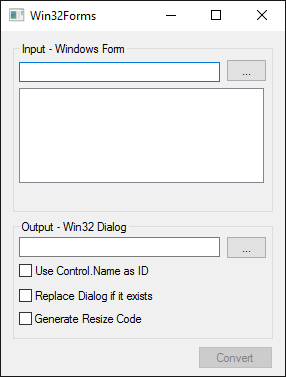
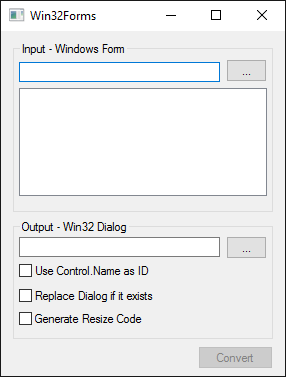
ListBox size improved

Changed region(s): [[0.8951, 0.2334, 0.951, 0.5252], [0.0559, 0.496, 0.0839, 0.5252]]

diff --git a/Win32Forms/ResultBox.Designer.cs b/Win32Forms/ResultBox.Designer.cs
@@ -28,96 +28,97 @@
         /// 
         private void InitializeComponent()
         {
-            this.pnlWhite = new System.Windows.Forms.Panel();
-            this.lblMessage = new System.Windows.Forms.Label();
-            this.picIcon = new System.Windows.Forms.PictureBox();
-            this.txtLog = new System.Windows.Forms.TextBox();
-            this.btnOK = new System.Windows.Forms.Button();
-            this.pnlWhite.SuspendLayout();
-            ((System.ComponentModel.ISupportInitialize)(this.picIcon)).BeginInit();
-            this.SuspendLayout();
-            // 
-            // pnlWhite
-            // 
-            this.pnlWhite.Anchor = ((System.Windows.Forms.AnchorStyles)((((System.Windows.Forms.AnchorStyles.Top | System.Windows.Forms.AnchorStyles.Bottom) 
+			this.pnlWhite = new System.Windows.Forms.Panel();
+			this.lblMessage = new System.Windows.Forms.Label();
+			this.picIcon = new System.Windows.Forms.PictureBox();
+			this.txtLog = new System.Windows.Forms.TextBox();
+			this.btnOK = new System.Windows.Forms.Button();
+			this.pnlWhite.SuspendLayout();
+			((System.ComponentModel.ISupportInitialize)(this.picIcon)).BeginInit();
+			this.SuspendLayout();
+			// 
+			// pnlWhite
+			// 
+			this.pnlWhite.Anchor = ((System.Windows.Forms.AnchorStyles)((((System.Windows.Forms.AnchorStyles.Top | System.Windows.Forms.AnchorStyles.Bottom) 
             | System.Windows.Forms.AnchorStyles.Left) 
             | System.Windows.Forms.AnchorStyles.Right)));
-            this.pnlWhite.BackColor = System.Drawing.Color.White;
-            this.pnlWhite.Controls.Add(this.lblMessage);
-            this.pnlWhite.Controls.Add(this.picIcon);
-            this.pnlWhite.Controls.Add(this.txtLog);
-            this.pnlWhite.Location = new System.Drawing.Point(0, 0);
-            this.pnlWhite.Margin = new System.Windows.Forms.Padding(0);
-            this.pnlWhite.MinimumSize = new System.Drawing.Size(235, 84);
-            this.pnlWhite.Name = "pnlWhite";
-            this.pnlWhite.Size = new System.Drawing.Size(530, 182);
-            this.pnlWhite.TabIndex = 0;
-            // 
-            // lblMessage
-            // 
-            this.lblMessage.Anchor = ((System.Windows.Forms.AnchorStyles)(((System.Windows.Forms.AnchorStyles.Top | System.Windows.Forms.AnchorStyles.Left) 
+			this.pnlWhite.BackColor = System.Drawing.Color.White;
+			this.pnlWhite.Controls.Add(this.lblMessage);
+			this.pnlWhite.Controls.Add(this.picIcon);
+			this.pnlWhite.Controls.Add(this.txtLog);
+			this.pnlWhite.Location = new System.Drawing.Point(0, 0);
+			this.pnlWhite.Margin = new System.Windows.Forms.Padding(0);
+			this.pnlWhite.MinimumSize = new System.Drawing.Size(235, 84);
+			this.pnlWhite.Name = "pnlWhite";
+			this.pnlWhite.Size = new System.Drawing.Size(624, 392);
+			this.pnlWhite.TabIndex = 0;
+			// 
+			// lblMessage
+			// 
+			this.lblMessage.Anchor = ((System.Windows.Forms.AnchorStyles)(((System.Windows.Forms.AnchorStyles.Top | System.Windows.Forms.AnchorStyles.Left) 
             | System.Windows.Forms.AnchorStyles.Right)));
-            this.lblMessage.Location = new System.Drawing.Point(64, 26);
-            this.lblMessage.Margin = new System.Windows.Forms.Padding(3, 0, 30, 30);
-            this.lblMessage.MinimumSize = new System.Drawing.Size(159, 0);
-            this.lblMessage.Name = "lblMessage";
-            this.lblMessage.Size = new System.Drawing.Size(457, 13);
-            this.lblMessage.TabIndex = 2;
-            this.lblMessage.Text = "[Message]";
-            // 
-            // picIcon
-            // 
-            this.picIcon.BackColor = System.Drawing.Color.White;
-            this.picIcon.Location = new System.Drawing.Point(25, 26);
-            this.picIcon.Name = "picIcon";
-            this.picIcon.Size = new System.Drawing.Size(32, 32);
-            this.picIcon.TabIndex = 1;
-            this.picIcon.TabStop = false;
-            // 
-            // txtLog
-            // 
-            this.txtLog.Anchor = ((System.Windows.Forms.AnchorStyles)((((System.Windows.Forms.AnchorStyles.Top | System.Windows.Forms.AnchorStyles.Bottom) 
+			this.lblMessage.Location = new System.Drawing.Point(64, 26);
+			this.lblMessage.Margin = new System.Windows.Forms.Padding(3, 0, 30, 30);
+			this.lblMessage.MinimumSize = new System.Drawing.Size(159, 0);
+			this.lblMessage.Name = "lblMessage";
+			this.lblMessage.Size = new System.Drawing.Size(551, 13);
+			this.lblMessage.TabIndex = 2;
+			this.lblMessage.Text = "[Message]";
+			// 
+			// picIcon
+			// 
+			this.picIcon.BackColor = System.Drawing.Color.White;
+			this.picIcon.Location = new System.Drawing.Point(25, 26);
+			this.picIcon.Name = "picIcon";
+			this.picIcon.Size = new System.Drawing.Size(32, 32);
+			this.picIcon.TabIndex = 1;
+			this.picIcon.TabStop = false;
+			// 
+			// txtLog
+			// 
+			this.txtLog.Anchor = ((System.Windows.Forms.AnchorStyles)((((System.Windows.Forms.AnchorStyles.Top | System.Windows.Forms.AnchorStyles.Bottom) 
             | System.Windows.Forms.AnchorStyles.Left) 
             | System.Windows.Forms.AnchorStyles.Right)));
-            this.txtLog.Location = new System.Drawing.Point(67, 57);
-            this.txtLog.Multiline = true;
-            this.txtLog.Name = "txtLog";
-            this.txtLog.ReadOnly = true;
-            this.txtLog.ScrollBars = System.Windows.Forms.ScrollBars.Vertical;
-            this.txtLog.Size = new System.Drawing.Size(451, 111);
-            this.txtLog.TabIndex = 5;
-            // 
-            // btnOK
-            // 
-            this.btnOK.Anchor = ((System.Windows.Forms.AnchorStyles)((System.Windows.Forms.AnchorStyles.Bottom | System.Windows.Forms.AnchorStyles.Right)));
-            this.btnOK.DialogResult = System.Windows.Forms.DialogResult.OK;
-            this.btnOK.Location = new System.Drawing.Point(430, 193);
-            this.btnOK.Name = "btnOK";
-            this.btnOK.Size = new System.Drawing.Size(88, 26);
-            this.btnOK.TabIndex = 3;
-            this.btnOK.Text = "OK";
-            this.btnOK.UseVisualStyleBackColor = true;
-            this.btnOK.Click += new System.EventHandler(this.btnOK_Click);
-            // 
-            // ResultBox
-            // 
-            this.AcceptButton = this.btnOK;
-            this.AutoScaleDimensions = new System.Drawing.SizeF(6F, 13F);
-            this.AutoScaleMode = System.Windows.Forms.AutoScaleMode.Font;
-            this.ClientSize = new System.Drawing.Size(530, 231);
-            this.Controls.Add(this.btnOK);
-            this.Controls.Add(this.pnlWhite);
-            this.FormBorderStyle = System.Windows.Forms.FormBorderStyle.SizableToolWindow;
-            this.MaximizeBox = false;
-            this.MinimizeBox = false;
-            this.Name = "ResultBox";
-            this.ShowIcon = false;
-            this.ShowInTaskbar = false;
-            this.StartPosition = System.Windows.Forms.FormStartPosition.CenterScreen;
-            this.pnlWhite.ResumeLayout(false);
-            this.pnlWhite.PerformLayout();
-            ((System.ComponentModel.ISupportInitialize)(this.picIcon)).EndInit();
-            this.ResumeLayout(false);
+			this.txtLog.Location = new System.Drawing.Point(67, 57);
+			this.txtLog.Multiline = true;
+			this.txtLog.Name = "txtLog";
+			this.txtLog.ReadOnly = true;
+			this.txtLog.ScrollBars = System.Windows.Forms.ScrollBars.Vertical;
+			this.txtLog.Size = new System.Drawing.Size(545, 321);
+			this.txtLog.TabIndex = 5;
+			this.txtLog.KeyDown += new System.Windows.Forms.KeyEventHandler(this.txtLog_KeyDown);
+			// 
+			// btnOK
+			// 
+			this.btnOK.Anchor = ((System.Windows.Forms.AnchorStyles)((System.Windows.Forms.AnchorStyles.Bottom | System.Windows.Forms.AnchorStyles.Right)));
+			this.btnOK.DialogResult = System.Windows.Forms.DialogResult.OK;
+			this.btnOK.Location = new System.Drawing.Point(524, 403);
+			this.btnOK.Name = "btnOK";
+			this.btnOK.Size = new System.Drawing.Size(88, 26);
+			this.btnOK.TabIndex = 3;
+			this.btnOK.Text = "OK";
+			this.btnOK.UseVisualStyleBackColor = true;
+			this.btnOK.Click += new System.EventHandler(this.btnOK_Click);
+			// 
+			// ResultBox
+			// 
+			this.AcceptButton = this.btnOK;
+			this.AutoScaleDimensions = new System.Drawing.SizeF(6F, 13F);
+			this.AutoScaleMode = System.Windows.Forms.AutoScaleMode.Font;
+			this.ClientSize = new System.Drawing.Size(624, 441);
+			this.Controls.Add(this.btnOK);
+			this.Controls.Add(this.pnlWhite);
+			this.FormBorderStyle = System.Windows.Forms.FormBorderStyle.SizableToolWindow;
+			this.MaximizeBox = false;
+			this.MinimizeBox = false;
+			this.Name = "ResultBox";
+			this.ShowIcon = false;
+			this.ShowInTaskbar = false;
+			this.StartPosition = System.Windows.Forms.FormStartPosition.CenterScreen;
+			this.pnlWhite.ResumeLayout(false);
+			this.pnlWhite.PerformLayout();
+			((System.ComponentModel.ISupportInitialize)(this.picIcon)).EndInit();
+			this.ResumeLayout(false);
 
         }
 

diff --git a/Win32Forms/ResultBox.cs b/Win32Forms/ResultBox.cs
@@ -44,5 +44,17 @@ namespace Hiale.Win32Forms
             DialogResult = DialogResult.OK;
             Close();
         }
-    }
+
+		private void txtLog_KeyDown(object sender, KeyEventArgs e)
+		{
+			if (e.Control && e.KeyCode == Keys.A)
+			{
+				txtLog.SelectAll();
+			}
+			if (e.Control && e.KeyCode == Keys.A)
+			{
+				txtLog.Copy();
+			}
+		}
+	}
 }

diff --git a/Win32Forms/FormConverter.cs b/Win32Forms/FormConverter.cs
@@ -503,6 +503,9 @@ namespace Hiale.Win32Forms
 			}
 			if (control.Sorted)
 				styles.Add("LBS_SORT");
+
+			//size hack, height somehow does not fit 100%
+			control.ClientSize = new Size(control.Width, (int) (control.Height * 1.12));
 			AddControl(control, "LISTBOX", styles);
 		}
 
